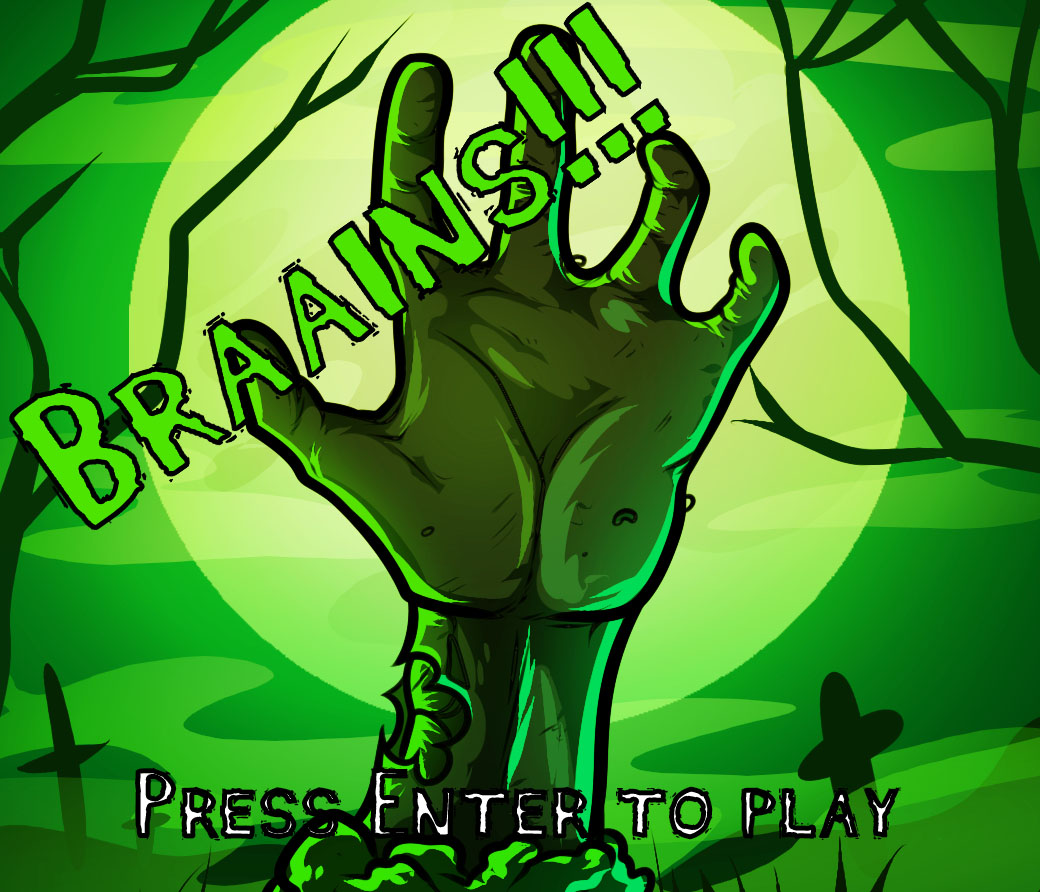
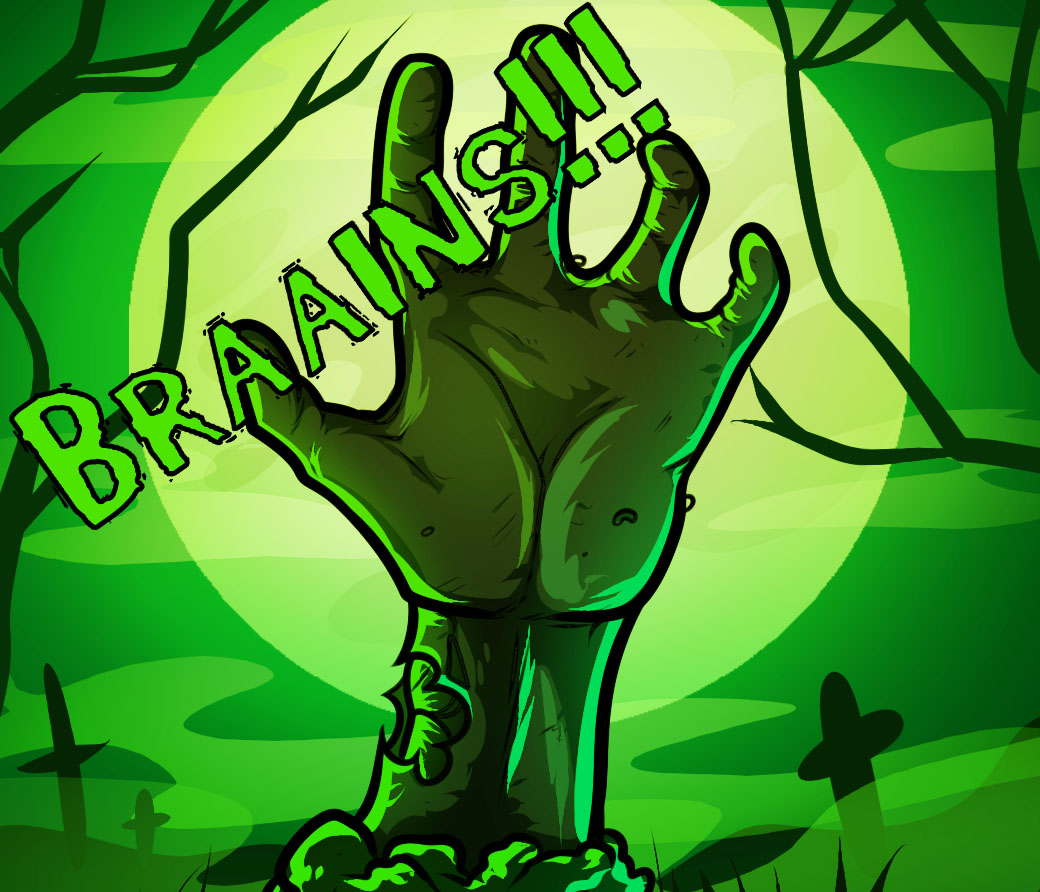
Added  animation to menutext

Changed region(s): [[0.1231, 0.8475, 0.8615, 0.9383]]

diff --git a/core/src/com/mygdx3/game/BrainsMenu.java b/core/src/com/mygdx3/game/BrainsMenu.java
@@ -9,6 +9,8 @@ import com.badlogic.gdx.graphics.Texture;
 import com.badlogic.gdx.graphics.g2d.SpriteBatch;
 import com.badlogic.gdx.graphics.g2d.TextureRegion;
 import com.badlogic.gdx.scenes.scene2d.Stage;
+import com.badlogic.gdx.scenes.scene2d.actions.Actions;
+import com.badlogic.gdx.scenes.scene2d.actions.RepeatAction;
 
 public class BrainsMenu implements Screen{
 
@@ -17,6 +19,8 @@ public class BrainsMenu implements Screen{
     private Texture background;
     private TextureRegion backgroundRegion;
     private SpriteBatch batch;
+    private MenuText menuText;
+
 
     public BrainsMenu(Game g){
         game = g;
@@ -28,6 +32,12 @@ public class BrainsMenu implements Screen{
         background = new Texture(Gdx.files.internal("brainsStartScreen.jpg"));
         backgroundRegion = new TextureRegion(background);
         batch = new SpriteBatch();
+        menuText = new MenuText();
+
+        RepeatAction action = Actions.forever(Actions.sequence(Actions.scaleTo(1,1,1), Actions.scaleTo(0,0,1)));
+        menuText.addAction(action);
+
+        uiStage.addActor(menuText);
 
     }
 
@@ -37,16 +47,19 @@ public class BrainsMenu implements Screen{
     }
 
     @Override
-    public void render(float delta) {
+    public void render(float dt) {
 
         if (Gdx.input.isKeyJustPressed(Input.Keys.ENTER))
             game.setScreen(new BrainsLevel(game));
 
-        Gdx.gl.glClear(GL20.GL_COLOR_BUFFER_BIT);
+        uiStage.act(dt);
 
+        Gdx.gl.glClear(GL20.GL_COLOR_BUFFER_BIT);
         batch.begin();
         batch.draw(backgroundRegion,0,0, Gdx.graphics.getWidth(), Gdx.graphics.getHeight());
         batch.end();
+
+        uiStage.draw();
 
     }
 

diff --git a/core/src/com/mygdx3/game/MenuText.java b/core/src/com/mygdx3/game/MenuText.java
@@ -1,0 +1,28 @@
+package com.mygdx3.game;
+
+import com.badlogic.gdx.Gdx;
+import com.badlogic.gdx.graphics.Texture;
+import com.badlogic.gdx.graphics.g2d.Batch;
+import com.badlogic.gdx.graphics.g2d.TextureRegion;
+import com.badlogic.gdx.scenes.scene2d.Actor;
+
+
+public class MenuText extends Actor{
+
+    private TextureRegion region;
+    private Texture texture;
+
+    public MenuText(){
+        super();
+        texture = new Texture(Gdx.files.internal("pressEnter.png"));
+        region = new TextureRegion(texture);
+        setOrigin(region.getRegionWidth()/2, region.getRegionHeight()/2);
+    }
+
+    @Override
+    public void draw(Batch batch, float parentAlpha) {
+        super.draw(batch, parentAlpha);
+        batch.draw(region, 0, 0, Gdx.graphics.getWidth()/2, region.getRegionHeight()/2,
+                Gdx.graphics.getWidth(), region.getRegionHeight(), getScaleX(), getScaleY(), getRotation());
+    }
+}
